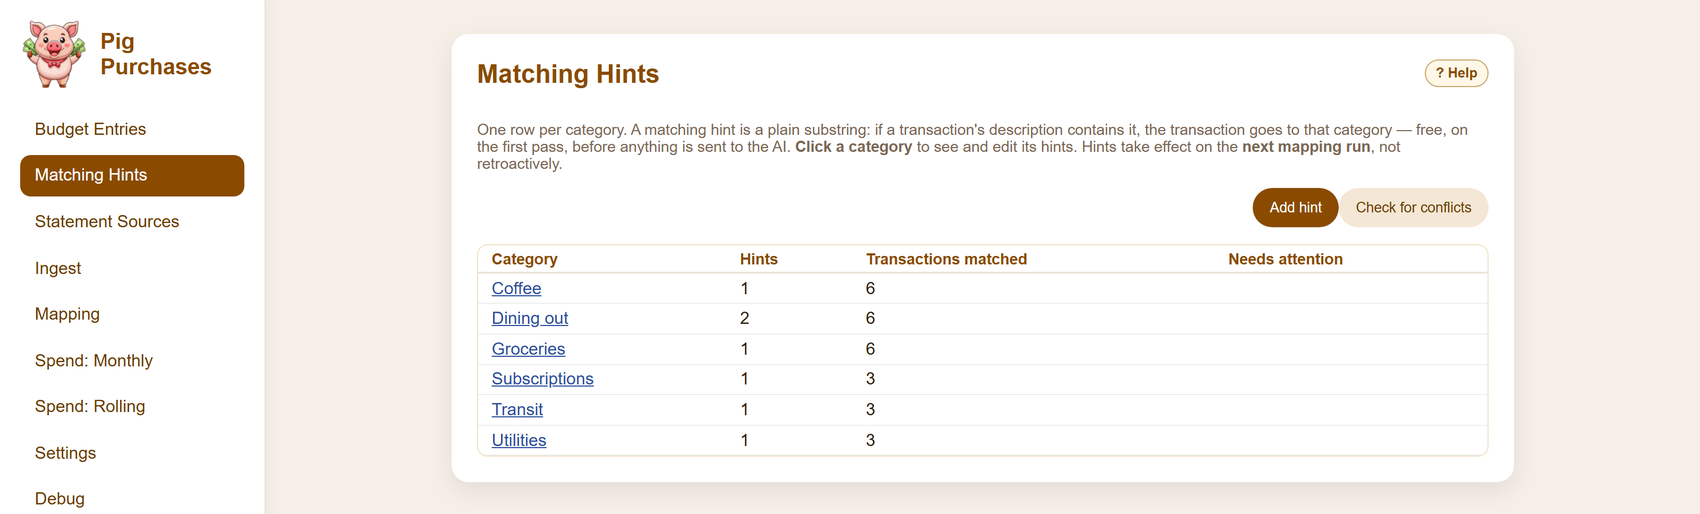
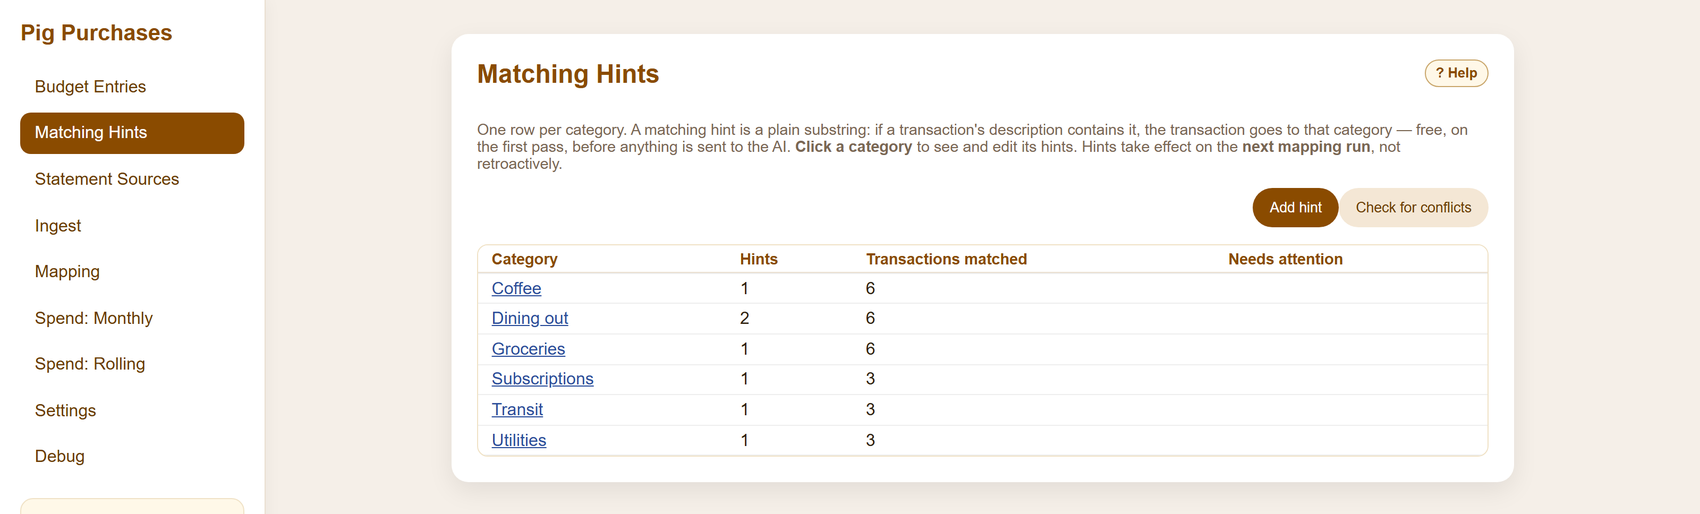
Drop the illustrated mark from the sidebar
The sidebar led with a 64px cartoon pig above the navigation. "Pig Purchases"
in the wordmark already names the app, and on a tool whose subject is somebody's
bank statements the illustration set a tone the rest of the interface does not.
The navigation now starts at the top of the panel.

The browser-tab favicon and the shortcut icon are untouched — this is the mark
inside the app, not the app's identity elsewhere.

The six screenshots that showed the sidebar are retaken. The three that crop to
a dialog were unaffected and are byte-identical.

diff --git a/src/main/resources/static/index.html b/src/main/resources/static/index.html
@@ -14,7 +14,6 @@
       /* Sidebar */
       .sidebar { width: 250px; flex-shrink: 0; background: white; border-right: 1px solid #eadfd0; padding: 1.2rem; display: flex; flex-direction: column; gap: 1.2rem; box-shadow: 2px 0 14px rgba(0,0,0,0.04); }
       .brand { display: flex; align-items: center; gap: 0.7rem; }
-      .brand .logo { width: 64px; height: 64px; object-fit: contain; flex-shrink: 0; }
       .brand h1 { color: #8a4b00; margin: 0; font-size: 1.3rem; }
       nav { display: flex; flex-direction: column; gap: 0.3rem; }
       .nav-item { text-align: left; border: none; background: transparent; padding: 0.65rem 0.85rem; border-radius: 10px; cursor: pointer; color: #6b3b00; font-size: 1rem; }
@@ -306,7 +305,6 @@
     <div class="app">
       <aside class="sidebar">
         <div class="brand">
-          <img src="/icon.png" alt="Pig Purchases logo" class="logo" />
           <h1>Pig Purchases</h1>
         </div>
         <nav>
